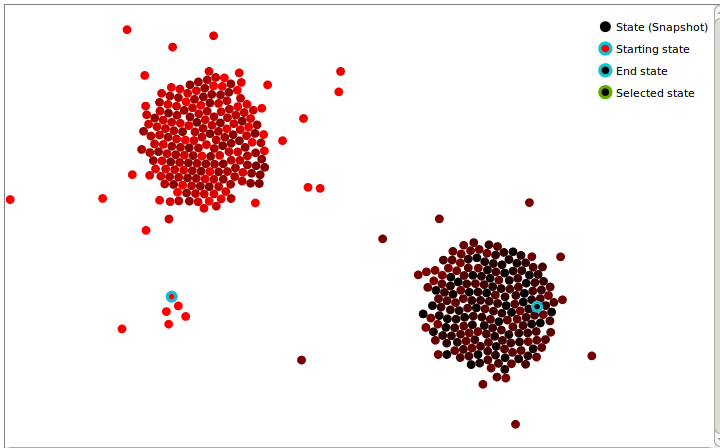
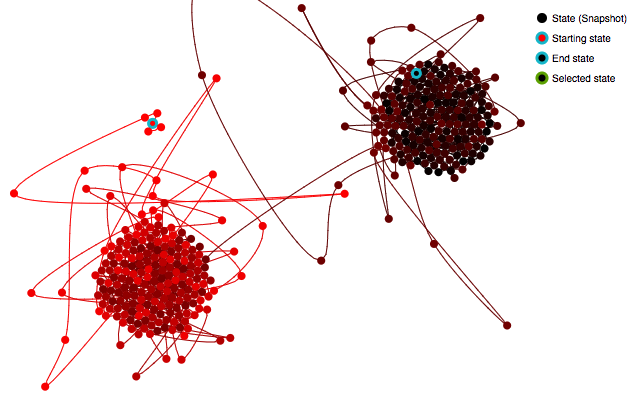
Add and fix stuff from start to invariant graph

diff --git a/visuals.tex b/visuals.tex
@@ -3,9 +3,10 @@
 \label{sec:visuals}
 %%%%%%%%%%%%%%%%%%%%%%%%%%%%%%%%%%%%%%%%%%%%%
 
-Pangaea is composed of 3 primary visual components. Each component is
+Pangaea is composed of three primary visual components. Each component is
 tailored to understanding systems at different granularities. The
-first component is the time curve. The time curve plots a point for
+first component is the time curve, proposed by Bach et. al~\cite{Bach2015timecurves}. 
+The time curve plots a point for
 each snapshot collected from a systems logs. The distance between each
 point is the difference in their state as calculated in
 Section~\ref{differentiation-algorithm}. The points are connected by a
@@ -36,10 +37,26 @@ each point is representative of the system as a whole.  A result of
 calculating the differential of each snapshot, is that system states
 which are similar to one another are clustered together, while
 differing states are further apart.  This clustering allows users to
-quickly associate similar states of their system. Each point is also
+quickly associate similar states of their system. 
+The clustering algorithm is actually a dimension reduction procedure,
+and we use t-SNE~\cite{maaten2008visualizing} to generate the 2D 
+coordinates from the the N-dimension distance matrix, and later 
+normalize and resize it to fit the screen.  We also followed the 
+suggestion made by Bach in the original time curve paper that 
+users usually read from one direction to another (say left to right),
+and hence we rotate the coordinates, whose spacial proximity
+are invariant to rotation, so that the start and end point are
+aligned horizontally.  Before finalizing the position of points,
+we remove overlapping by bouncing off the points that are too close
+to each other, otherwise highly similar states would result in
+serious occlusion, which leads to misunderstanding.
+
+
+Each point is also
 color coded based on their temporal ordering. The first snapshot is
 colored bright red, and the final snapshot is dark brown. All
-intermediate points are colored as an intermediate hue. By coloring
+intermediate points are colored with linear interpolated luminosity. 
+By coloring
 each of the points users can associate clustered state with a time in
 the systems execution. The starting and end snapshots are significant
 because they orient the users reasoning about their system. Starting
@@ -47,21 +64,27 @@ and end points are circled in blue to make them identifiable.
 
 All points in the graph are connected by a single curve. The curve
 begins at the starting point, ends at the end point, and connects all
-points sequentially as they occur in logical time. The curve is color
+points sequentially as they occur in logical time. 
+To prevent the curve from being too angular, we smooth it using Bezier
+curves with control points that are parallel to the line between its
+predecessor and successor.
+The curve is color
 coded identically with the points. It begins as bright red, and
 transitions to dark brown. Where the curve intersects with a point
 their colors match. The purpose of color coding the time curve is to
 allow users to quickly associate a temporal relationship on
-transitions between states. A legend which describes these encodings
+transitions between states. A legend which describes the encoding
 is positioned in the top right of the graph.
 
 Users interact with the curve by selecting an individual snapshot.
 When selected concrete information about the snapshot is provided to
 the user. First, the corresponding cut of the network from on which
-the snapshot was taken is highlighted on the process communication
+the snapshot was taken is auto-scrolled and highlighted on the 
+process communication
 graph (see Section~\ref{sec:communication-graph}). Second the user is
 presented with a table of variables and their values from the
-snapshot. The table contains information about the node a variable was
+snapshot, as shown in Figure~\ref{fig:state-detail}. 
+The table contains information about the node a variable was
 resident on, the name of the variable, the variables type, and its
 value. Additionally a table containing the vector clocks on each node
 is rendered to help users identify the precise moment the snapshot was
@@ -70,6 +93,13 @@ of the system. Users can investigate which variable assignment
 correspond to clusters in the curve. In the cases of divergent or
 unexpected clustering users can associate concrete state with the
 behaviour of their system.
+
+\begin{figure}[h]
+    \includegraphics[width=\linewidth]{fig/state-detail}%
+    \caption{The detail of state, including vector clocks and 
+    collected variable values. Only a partial is shown here, 
+    users can scroll down to see more. \label{fig:state-detail}}%
+\end{figure}
 
 In Figure~\ref{fig:put-get-curve} the bright red cluster, and brown
 cluster correspond to snapshots in which put, and get requests were
@@ -85,7 +115,15 @@ beginning of the clusters execution.
     \caption{Time curve generated from an etcd raft cluster processing 50 put requests, followed by 50 get requests.\label{fig:put-get-curve}}%
 \end{figure}
     
+\begin{figure}[h]
+    \includegraphics[width=\linewidth]{fig/linear-server}%
+    \caption{Time curve generated from \textbf{TODO}. \label{fig:linear-server}}%
+\end{figure}
 
+\begin{figure}[h]
+    \includegraphics[width=\linewidth]{fig/put-get-fail}%
+    \caption{Time curve generated from \textbf{TODO} \label{fig:put-get-fail}}%
+\end{figure}
 
 \subsection{Invariant Graph}
 \label{sec:invariant-graph}
@@ -107,10 +145,15 @@ integers, and a subset of which hold over more general types.
 Specifically a thin black line denotes equality, while a dashed black
 line denotes inequality. Both of these relationships are valid on
 arbitrary data so they are graphed for all types, such as strings,
-booleans, and integers. Light blue triangular edges correspond to the
-\emph{less than} relationship. Two corners of the triangle are attached
+booleans, and integers. 
+We use tapered edges to represent inequality relations.  According to
+the evaluation from Danny Holten et. al~\cite{holten2011extended}, tapered
+edges are suitable to convey direction information in node-link diagrams.
+
+Light blue tapered edges correspond to the
+\emph{less than} relationship. Two corners of the tapered triangle are attached
 to the greater variable, while a single is attached to the lesser.
-Similarly a light blue triangle with a black border represents the
+Similarly a light blue tapered edge with a black border represents the
 \emph{greater than or equal too} relation. Users can select a
 variable, and all transitive relations are highlighted in red. When a
 variable is highlighted, and variables which do not have a transitive

diff --git a/background.tex b/background.tex
@@ -32,9 +32,21 @@ visualizing concurrent system traces using partial orderings can help
 developers reason about interleaving
 executions~\cite{6650534}~\cite{7272586}~\cite{isaacs2014combing}. 
 We consider the state of a
-system to be a direct artifact of a system trace. To our knowledge no
-attempts have been made to visualize distributed system traces, and by
-extension distributed state traces.  Isaacs et. al developed Ravel~\cite{isaacs2014combing}
+system to be a direct artifact of a system trace. 
+To our knowledge few attempts have been made to visualize distributed system traces, 
+and by extension distributed state traces.  
+Beschastnikh et. al built the ShiViz~\cite{BeschastnikhWBE2016} to generate an
+interactive communication graph (a time-space diagram) using distributed 
+system execution logs, which is a stream of events with their vector clocks.
+The happened-before relation between events is derived from the vector clocks,
+and it actually represents message sending and receiving in the system.
+Such a communication graph is straightforward to understand who sends what 
+to whom at a specific time, but not easy to grasp the big picture, especially
+distributed states.  
+Though ShiViz can discover graph ``motif'', frequently recurring communication patterns,
+but it is limited to work under 4 events and certain motif finding algorithms
+that might not understand the communication pattern as a person does.
+Isaacs et. al developed Ravel~\cite{isaacs2014combing}
 to visualize parallel execution traces, but their focus is on how to 
 scale it up in the number of nodes and span of time, which actually
 ignores the state of the system.  Ravel can provide insights for 

diff --git a/intro.tex b/intro.tex
@@ -33,17 +33,23 @@ are useful for reasoning about specific behaviour, but do little to
 reinforce developers mental models. ShiViz~\cite{BeschastnikhWBE2016}
 provisions users with a high level visual of a systems communication,
 and message logs, but does not provide a mechanism for reasoning about
-a nodes state. We propose Pangaea a tool for identifying deviant
+a nodes state. 
+
+We propose Pangaea a tool for providing overview and identifying deviant
 behaviour in distributed systems. Pangaea uses novel techniques for
-building a time curve, or approximate FSM, from the logs of a system.
+building a ``time curve''~\cite{Bach2015timecurves}, 
+which looks like an approximate FSM, from the logs of an execution.
 Further, Pangaea incorporates a graphical representation of likely
-data invariants, and a ShiViz style communication graph. These
-features allow developers to quickly identify deviant behaviour in
+data invariants, and a ShiViz style communication graph. 
+These features allow developers to quickly 
+capture the big picture of an
+execution, guiding and encouraging users to dig deeper into 
+interesting problems in the system.
+Also, it allows for identifying anomalous behaviour in
 their systems by contrasting their mental model with state machines
 and invariants detected at runtime. When deviant behaviour is detected
 Pangaea provides tools for zooming in on the execution, to examine
-concrete state.
+concrete state.  We will show a few scenarios with traces from
+synthetic distributed systems.
 
-
-
-\textbf{We evaluated Pangaea$\dots$}.
+%\textbf{We evaluated Pangaea$\dots$}.

diff --git a/abstract.tex b/abstract.tex
@@ -14,14 +14,18 @@ inspection. Specifications are useful for defining correct behaviour,
 but proving that a system adheres to a specification is beyond the
 capabilities of modern techniques.  Such shortcomings demand new tools
 to help developers better understand their systems, and quickly
-identify deviant behaviour.  Using visualizations, large amounts of
-information can be concisely, and meaningfully encoded. Distributed
+identify deviant behaviour.  
+Distributed
 state, communication patterns, and data invariants are useful
 execution artifacts for reasoning about a systems behaviour.  However,
-interpreting them from logs alone is tricky and error prone.  We
-propose Pangaea, a tool for identifying deviant behaviour in
-distributed systems.  Using novel distributed state differentiation
+interpreting them from logs alone is tricky and error prone.  
+Using visualizations, large amounts of
+information can be concisely, and meaningfully encoded. 
+We propose Pangaea, a visual tool to understand execution traces in
+distributed systems.  
+Using novel distributed state differentiation
 Pangaea builds approximate, high level, finite state machines derived
 from dynamic behaviour. Deviations from expected state machines can be
 inspected using a graph of the systems invariants, and communication
-graph. \textbf{We evaluated Pangaea$\dots$}.
+graph. 
+%\textbf{We evaluated Pangaea$\dots$}.

diff --git a/distributed-state.tex b/distributed-state.tex
@@ -167,3 +167,5 @@ an execution. Logs of a systems execution also contain vector clocks. Using the
 vector clocks from the logs we use the happens-before relationship to construct
 a communication graph. Section~\ref{sec:communication-graph} covers the specifics
 of how the graph is rendered.
+\textbf{How to derive happened-before relation from vector logs?}
+
